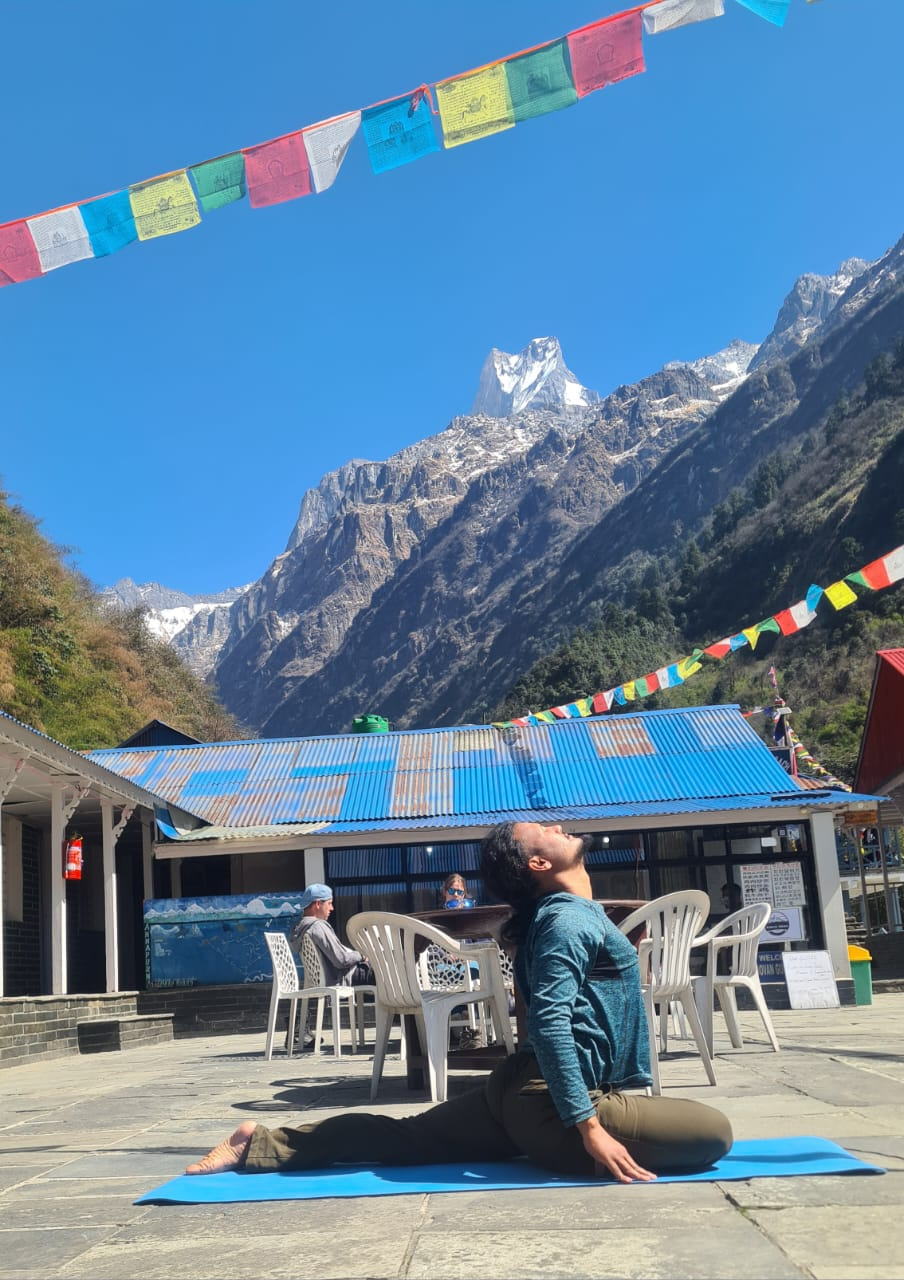
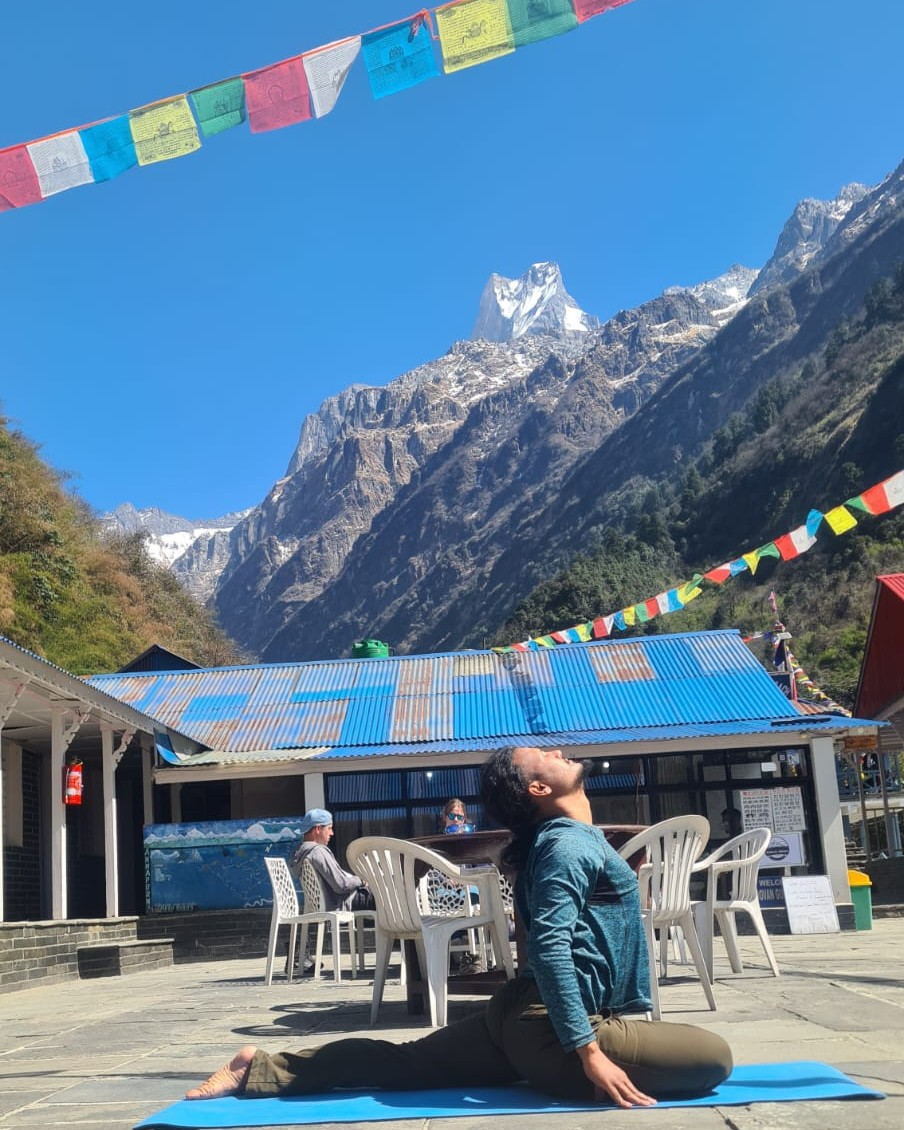
Red oanda and snow leopard image

diff --git a/src/constants.tsx b/src/constants.tsx
@@ -1,5 +1,30 @@
 import type { ElevationPoint } from './types';
 
+// Carousel Images
+import spiritual1 from './assets/images/Spirituality Retreat/yoga-spiritual_1.jpeg';
+import spiritual2 from './assets/images/Spirituality Retreat/meditation-spiritual_2.png';
+import spiritual3 from './assets/images/Spirituality Retreat/plant-spiritual_3.jpg';
+import spiritual4 from './assets/images/Spirituality Retreat/healing bowl-spiritual_4.png';
+import spiritual5 from './assets/images/Spirituality Retreat/sunlight-spiritual_5.jpg';
+
+import photo1 from './assets/images/Photography/Sadhu-photography_1.jpg';
+import photo2 from './assets/images/Photography/potrait-photography_2.jpg';
+import photo3 from './assets/images/Photography/machhapuchare-photography_3.jpg';
+import photo4 from './assets/images/Photography/potratit-photography_4.jpg';
+import photo5 from './assets/images/Photography/light-photography_5.jpg';
+
+import wildlife1 from './assets/images/Wildlife/rhino-wildlife_1.jpg';
+import wildlife2 from './assets/images/Wildlife/tiger-wildlife_2.jpg';
+import wildlife3 from './assets/images/Wildlife/monkey-wildlife_3.jpg';
+import wildlife4 from './assets/images/Wildlife/peacock-wildlife_4.jpg';
+import wildlife5 from './assets/images/Wildlife/deer-wildlife_5.jpg';
+
+import trekking1 from './assets/images/Trekking/congde-tekking_1.jpg';
+import trekking2 from './assets/images/Trekking/Thamserku-trekiking_2.jpg';
+import trekking3 from './assets/images/Trekking/manewall-trekking_3.jpg';
+import trekking4 from './assets/images/Trekking/ABC-trekking_4.jpg';
+import trekking5 from './assets/images/Trekking/nepalihouse-trekking_5.jpg';
+
 // Everest Base Camp Trek elevation profile data (14-day summit timeline)
 export const EVEREST_ELEVATION_DATA: ElevationPoint[] = [
   { day: 'Day 1', elevation: 2860, location: 'Lukla', coord: [78, 32] },
@@ -41,11 +66,11 @@ export const JOURNEY_CATEGORIES = [
     title: 'Awakening Inner Compass',
     description: 'Spirituality is the profound journey of connecting with your true self and the universe. It transcends religious dogmas, focusing instead on personal growth, mindfulness, and the pursuit of inner peace. Nepal is a profound sanctuary where the peaks of the Himalayas meet ancient wisdom.',
     images: [
-      '/images/Spirituality Retreat/buddha-face.webp',
-      '/images/Spirituality Retreat/healing-bowl.webp',
-      '/images/Spirituality Retreat/buddha-with-flower.webp',
-      '/images/Spirituality Retreat/statue-of-man.webp',
-      '/images/Spirituality Retreat/room-with-asent.webp'
+      spiritual1.src,
+      spiritual2.src,
+      spiritual3.src,
+      spiritual4.src,
+      spiritual5.src
     ],
     alignment: 'right' as const
   },
@@ -54,11 +79,11 @@ export const JOURNEY_CATEGORIES = [
     title: 'Capture The Soul',
     description: 'Chase the light where earth meets heaven. From whispering prayer flags to the silence of snow-crowned giants, Nepal invites you to frame its eternal beauty. Wander through timeless villages and vibrant festivals, capturing stories etched in stone and spirit.',
     images: [
-      '/images/Capture/Nepal-RBR_097_13_50-R62_0755.webp',
-      '/images/Capture/Nepal-RBR_060_15_52-EV0A0678.webp',
-      '/images/Capture/Nepal-RBR_094_09_46-R62_5603-Avec accentuation-Bruit.webp',
-      '/images/Capture/92570968_1379412265583631_8140677813087764480_n.webp',
-      '/images/Capture/Nepal-RBR_060_16_15-EV0A0692.webp'
+      photo1.src,
+      photo2.src,
+      photo3.src,
+      photo4.src,
+      photo5.src
     ],
     alignment: 'left' as const
   },
@@ -67,11 +92,11 @@ export const JOURNEY_CATEGORIES = [
     title: 'Wild Secrets',
     description: 'Wander where the jungle breathes in time with nature. Track the majestic tiger through golden grasslands and watch the armored rhino emerge from the morning mist. This is a journey into the heart of the wild, where every rustle reveals a new, untamed story.',
     images: [
-      '/images/Wildlife/Nepal-RBR_067_08_47-IMGL2917.webp',
-      '/images/Wildlife/getty-images-FmsP_fMI5Ms-unsplash.webp',
-      '/images/Wildlife/getty-images-qqI0q5UCQEY-unsplash.webp',
-      '/images/Wildlife/abhijit-sinha-obc49be0-co-unsplash.webp',
-      '/images/Wildlife/abhijit-sinha-bAt2ZzaOCXo-unsplash.webp'
+      wildlife1.src,
+      wildlife2.src,
+      wildlife3.src,
+      wildlife4.src,
+      wildlife5.src
     ],
     alignment: 'right' as const
   },
@@ -80,11 +105,11 @@ export const JOURNEY_CATEGORIES = [
     title: 'Trails of Timeless Spirit',
     description: 'Traverse ancient trails where the majesty of the Himalayas meets deep-rooted traditions. In Nepal, trekking is more than a hike; it is a journey through sacred landscapes. You will encounter colorful prayer flags, mani walls, and remote monasteries.',
     images: [
-      '/images/Trekking/DSC09904.webp',
-      '/images/Trekking/DSCN7142.webp',
-      '/images/Trekking/DSCN7275.webp',
-      '/images/Trekking/PA120680.webp',
-      '/images/Trekking/DSCN2541.webp'
+      trekking1.src,
+      trekking2.src,
+      trekking3.src,
+      trekking4.src,
+      trekking5.src
     ],
     alignment: 'left' as const
   }

diff --git a/src/components/AboutPage.tsx b/src/components/AboutPage.tsx
@@ -1,12 +1,15 @@
 
 import React from 'react';
 import PageHero from './PageHero';
+import buddhimanImg from "../assets/images/buddhiman-tamang.webp";
+import deepakImg from "../assets/images/deepak-profile.webp";
+import trekkingBg from "../assets/images/Trekking/background.jpg";
 
 const TEAM = [
-   { name: 'Buddhiman Tamang', role: 'Founder & CEO', img: '/images/buddhiman-tamang.webp', note: 'Master in Psychology & Adventure Tourism' },
-   { name: 'Deepak Mahato Tharu', role: 'Chief Information Officer', img: '/images/deepak-profile.webp', note: 'Tech Strategy & Innovation' },
-   { name: 'Buddhiman Tamang', role: 'Founder & CEO', img: '/images/buddhiman-tamang.webp', note: 'Master in Psychology & Adventure Tourism' },
-   { name: 'Buddhiman Tamang', role: 'Founder & CEO', img: '/images/buddhiman-tamang.webp', note: 'Master in Psychology & Adventure Tourism' },
+   { name: 'Buddhiman Tamang', role: 'Founder & CEO', img: buddhimanImg.src, note: 'Master in Psychology & Adventure Tourism' },
+   { name: 'Deepak Mahato Tharu', role: 'Chief Information Officer', img: deepakImg.src, note: 'Tech Strategy & Innovation' },
+   { name: 'Buddhiman Tamang', role: 'Founder & CEO', img: buddhimanImg.src, note: 'Master in Psychology & Adventure Tourism' },
+   { name: 'Buddhiman Tamang', role: 'Founder & CEO', img: buddhimanImg.src, note: 'Master in Psychology & Adventure Tourism' },
 ];
 
 const AboutPage: React.FC = () => {
@@ -15,7 +18,7 @@ const AboutPage: React.FC = () => {
          <PageHero
             title="Marga Adventure"
             subtitle="A journey within."
-            image="/images/Trekking/DSCN7142.webp"
+            image={trekkingBg.src}
             parallax={true}
          />
 
@@ -36,7 +39,7 @@ const AboutPage: React.FC = () => {
                   <div className="w-full md:w-1/3 shrink-0">
                      <div className="relative rounded-none overflow-hidden shadow-2xl">
                         <img
-                           src="/images/buddhiman-tamang.webp"
+                           src={buddhimanImg.src}
                            alt="Buddhiman Tamang"
                            className="w-full aspect-[3/4] object-cover grayscale hover:grayscale-0 transition-all duration-700"
                            loading="lazy"

diff --git a/src/components/NepalPage.tsx b/src/components/NepalPage.tsx
@@ -1,6 +1,11 @@
 
 import React from 'react';
 import PageHero from './PageHero';
+import trekking1 from "../assets/images/Trekking/congde-tekking_1.jpg";
+import spiritual1 from "../assets/images/Spirituality Retreat/yoga-spiritual_1.jpeg";
+import wildlife1 from "../assets/images/Wildlife/rhino-wildlife_1.jpg";
+import photo1 from "../assets/images/Photography/Sadhu-photography_1.jpg";
+import bg from "../assets/images/Trekking/background.jpg";
 
 const ACTIVITIES = [
   {
@@ -8,7 +13,7 @@ const ACTIVITIES = [
     title: 'Sacred Steps in the Himalayas',
     subtitle: 'Trekking and Culture',
     description: 'Walk the ancient ridges where the mountains embrace the sky and stone paths tell stories of a thousand years. Blend the thrill of the ascent with the deep peace of temple chants.',
-    image: '/images/Trekking/DSCN7275.webp',
+    image: trekking1.src,
     icon: <svg className="w-8 h-8 text-brand" fill="none" viewBox="0 0 24 24" stroke="currentColor"><path strokeLinecap="round" strokeLinejoin="round" strokeWidth={2} d="M19 20H5a2 2 0 01-2-2V6a2 2 0 012-2h10a2 2 0 012 2v1m2 13a2 2 0 01-2-2V7m2 13a2 2 0 002-2V9a2 2 0 00-2-2h-2m-4-3H9M7 16h6M7 8h6v4H7V8z" /></svg>
   },
   {
@@ -16,7 +21,7 @@ const ACTIVITIES = [
     title: 'Awaken in the Himalayas',
     subtitle: 'Spiritual Retreat',
     description: 'Nepal is a sanctuary where the spirit finds its home. From the sacred birth of peace in Lumbini to the meditative silence of high-altitude monasteries, every breath here feels like a prayer.',
-    image: '/images/Spirituality Retreat/buddha-face.webp',
+    image: spiritual1.src,
     icon: <svg className="w-8 h-8 text-brand" fill="none" viewBox="0 0 24 24" stroke="currentColor"><path strokeLinecap="round" strokeLinejoin="round" strokeWidth={2} d="M12 3v1m0 16v1m9-9h-1M4 12H3m15.364 6.364l-.707-.707M6.343 6.343l-.707-.707m12.728 0l-.707.707M6.343 17.657l-.707.707M16 12a4 4 0 11-8 0 4 4 0 018 0z" /></svg>
   },
   {
@@ -24,7 +29,7 @@ const ACTIVITIES = [
     title: 'Wildlife Encounters',
     subtitle: 'Wildlife & Nature',
     description: 'Venture into the untamed heart of Nepal, where dense jungles and grassy plains teem with exotic life. Spot Bengal Tigers, Rhinos, and over 850 avian species in their natural habitat.',
-    image: '/images/Wildlife/Nepal-RBR_067_08_47-IMGL2917.webp',
+    image: wildlife1.src,
     icon: <svg className="w-8 h-8 text-brand" fill="none" viewBox="0 0 24 24" stroke="currentColor"><path strokeLinecap="round" strokeLinejoin="round" strokeWidth={2} d="M15 12a3 3 0 11-6 0 3 3 0 016 0z" /><path strokeLinecap="round" strokeLinejoin="round" strokeWidth={2} d="M2.458 12C3.732 7.943 7.523 5 12 5c4.478 0 8.268 2.943 9.542 7-1.274 4.057-5.064 7-9.542 7-4.477 0-8.268-2.943-9.542-7z" /></svg>
   },
   {
@@ -32,7 +37,7 @@ const ACTIVITIES = [
     title: 'Chasing Light in the Himalayas',
     subtitle: 'Photography Trip',
     description: 'Nepal is a living masterpiece painted in light and shadow. Frame the golden dawn igniting the himalayan peaks and the ancient, mist-shrouded temples where time stands still.',
-    image: '/images/Capture/Nepal-RBR_060_15_52-EV0A0678.webp',
+    image: photo1.src,
     icon: <svg className="w-8 h-8 text-brand" fill="none" viewBox="0 0 24 24" stroke="currentColor"><path strokeLinecap="round" strokeLinejoin="round" strokeWidth={2} d="M3 9a2 2 0 012-2h.93a2 2 0 001.664-.89l.812-1.22A2 2 0 0110.07 4h3.86a2 2 0 011.664.89l.812 1.22A2 2 0 0018.07 7H19a2 2 0 012 2v9a2 2 0 01-2 2H5a2 2 0 01-2-2V9z" /><path strokeLinecap="round" strokeLinejoin="round" strokeWidth={2} d="M15 13a3 3 0 11-6 0 3 3 0 016 0z" /></svg>
   }
 ];
@@ -43,7 +48,7 @@ const NepalPage: React.FC = () => {
       <PageHero
         title="Nepal"
         subtitle="Where the earth touches the sky."
-        image="/images/Trekking/PA120680.webp"
+        image={bg.src}
         parallax={true}
       />
 

diff --git a/src/components/ExpeditionPage.tsx b/src/components/ExpeditionPage.tsx
@@ -31,7 +31,7 @@ const ExpeditionPage: React.FC<ExpeditionPageProps> = ({
         duration: "12 Days",
         maxAltitude: "4,773m",
         difficulty: "Moderate",
-        groupSize: "2-12 People"
+        groupSize: "2-12"
     },
     price = "On Request",
     packingList,

diff --git a/src/components/JourneyBlock.tsx b/src/components/JourneyBlock.tsx
@@ -47,7 +47,7 @@ const JourneyBlock: React.FC<JourneyBlockProps> = ({ id, title, description, ima
       <div className="relative w-full h-full rounded-none overflow-hidden shadow-xl">
         <div className="absolute inset-0 bg-gray-900">
           {images.map((img, idx) => (
-            <div key={idx} className={`absolute inset-0 transition-all duration-[2000ms] cubic-bezier(0.23, 1, 0.32, 1) ${idx === currentIndex ? 'opacity-100 scale-105 blur-0' : 'opacity-0 scale-110 blur-sm'}`}>
+            <div key={idx} className={`absolute inset-0 transition-opacity duration-[1500ms] ease-in-out ${idx === currentIndex ? 'opacity-100 scale-100 z-10' : 'opacity-0 scale-100 z-0'}`}>
               <a href={`/${id}`} className="block w-full h-full cursor-pointer">
                 <img
                   src={img}

diff --git a/src/components/TripItineraryPage.tsx b/src/components/TripItineraryPage.tsx
@@ -44,7 +44,7 @@ const TripItineraryPage: React.FC<TripItineraryPageProps> = ({
         duration: "12 Days",
         maxAltitude: "4,773m",
         difficulty: "Moderate",
-        groupSize: "2-12 People"
+        groupSize: "2-12"
     },
     price = "On Request",
     packingList,

diff --git a/IMAGE-UPDATE-SUMMARY.md b/IMAGE-UPDATE-SUMMARY.md
@@ -1,0 +1,48 @@
+# Image Update Summary - Marga Adventure
+
+## ✅ COMPLETED (Final State)
+
+### 1. Asset Migration & Management
+- **Source of Truth**: All images sourced from `src/assets/images/`.
+- **Imports**: All `.astro` and `.tsx` files now use explicit ESM imports (e.g., `import img from '../assets/...'`) for better optimization and error checking.
+- **Renaming**: Renamed Uppercase `.JPG` files to lowercase `.jpg` in `src/assets/images/Trekking/` and `src/assets/images/Nepal section/` to ensure compatibility.
+
+### 2. Main Carousel (`src/constants.tsx`)
+Updated `JOURNEY_CATEGORIES` to use the **original ranked images**:
+- **Photography**: `Sadhu-photography_1.jpg`, `potrait-photography_2.jpg`, `machhapuchare-photography_3.jpg`, etc.
+- **Spiritual**: `yoga-spiritual_1.jpeg`, `meditation-spiritual_2.png`, `plant-spiritual_3.jpg`, etc.
+- **Wildlife**: `rhino-wildlife_1.jpg`, `tiger-wildlife_2.jpg`, `monkey-wildlife_3.jpg`, etc.
+- **Trekking**: `congde-tekking_1.jpg`, `Thamserku-trekiking_2.jpg` (renamed), `manewall-trekking_3.jpg` (renamed), etc.
+
+### 3. Category Pages
+Updated to use the same **ranked images** via imports:
+- **Photography Page**: Uses `Photography/photography-hero-bg.jpg` (new uploaded hero), `Sadhu-photography_1.jpg`.
+- **Spiritual Page**: Uses `yoga-spiritual_1.jpeg`, `background.jpg` (hero).
+- **Wildlife Page**: Uses `rhino-wildlife_1.jpg`, `wildlife background.jpg` (hero).
+- **Trekking Page**: Uses `congde-tekking_1.jpg`, `background.jpg` (hero, renamed).
+
+### 4. Nepal Section & Subpages
+Updated to use specific images from `src/assets/images/Nepal section/` where available:
+- **Langtang Valley**: Uses `Nepla_Trekking/langtang/DSC00006.jpg` (renamed).
+- **Upper Mustang**: Uses `Nepla_Trekking/mustang/mustang-1.jpg` (renamed).
+- **Red Panda**: Uses `Wildlife/3_red_panda.png` and `Wildlife/red_panda_walking.png`.
+- **Snow Leopard**: Uses `Wildlife/snow-leopard-1.png` and `Wildlife/snow-leopard-2.png`.
+- **Birdwatching**: Uses `Nepal_Wildlife/background.jpg` (hero), `Wildlife/peacock-wildlife_4.jpg`, and Nepal_Wildlife images.
+- **Manaslu & Mohare**: Updated to use imported trekking assets (`manewall`, `ABC`).
+- **Nepal Main Page**: Updated `NepalPage.tsx` to use imported assets for all cards and hero.
+
+### 5. Other Components
+- **About Us**: Updated `AboutPage.tsx` to use imported `buddhiman-tamang.webp` and `deepak-profile.webp`.
+- **Blog**: Updated `philosophy-of-silence.astro` to use imported images.
+- **404 Page**: Updated to use imported `manewall-trekking_3.jpg`.
+- **Trip Stats**: Removed "People" suffix from groupSize and changed "Challenging" to "Hard".
+
+## 📂 Key Dependencies
+- `src/assets/images/Nepal section/Nepla_Trekking/` (Contains Langtang & Mustang specific subfolders).
+- `src/assets/images/Trekking/` (Contains general trekking images).
+- `src/assets/images/Wildlife/` (Contains Red Panda & Snow Leopard images).
+- `src/assets/images/Nepal section/Nepal_Wildlife/` (Contains Birdwatching/Wildlife BG).
+
+## ⚠️ Notes
+- `Nepla_Trekking` folder name has a typo ("Nepla") but is preserved to match filesystem.
+- Use `import` statements for all future image usage to ensure build-time verification.